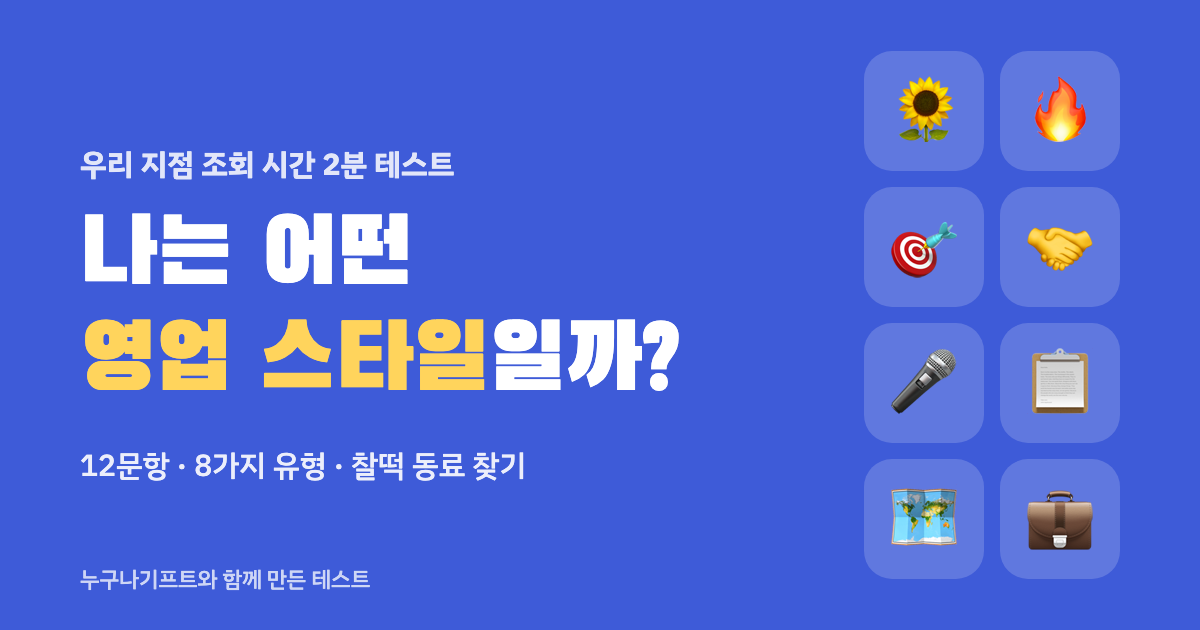
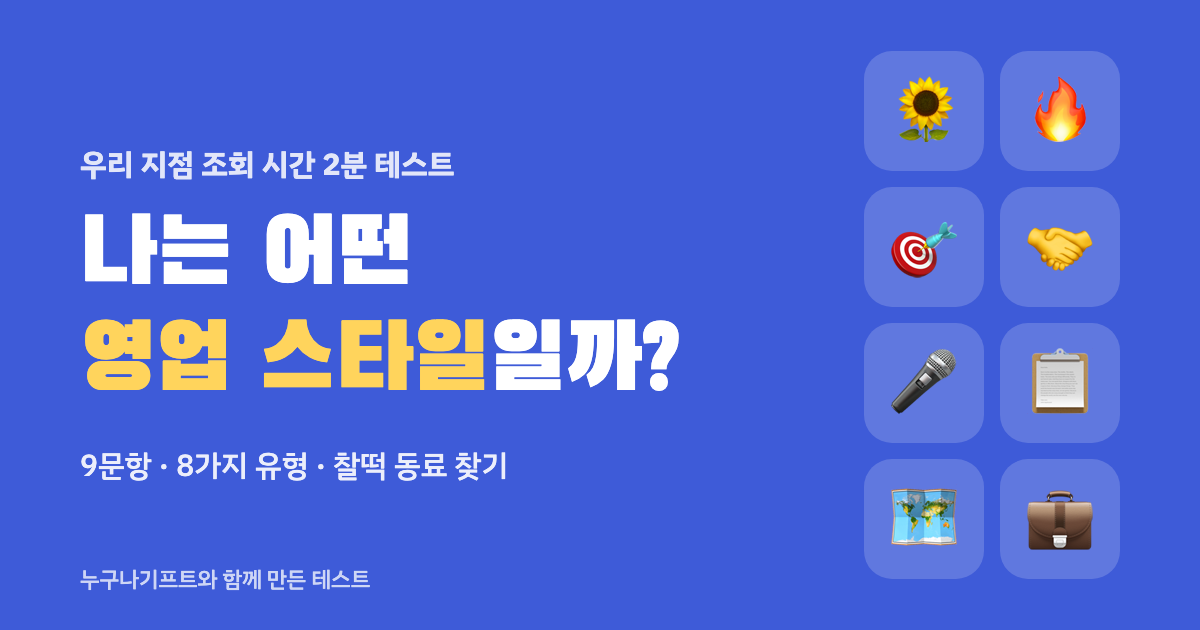
Add files via upload

Changed region(s): [[0.0617, 0.6937, 0.4625, 0.7841]]

diff --git a/index.html b/index.html
@@ -4,10 +4,10 @@
 <meta charset="utf-8">
 <meta name="viewport" content="width=device-width,initial-scale=1,viewport-fit=cover">
 <title>나는 어떤 영업 스타일일까?</title>
-<meta name="description" content="영업 현장 12가지 상황으로 알아보는 나의 영업 유형. 찰떡 동료, 상극 동료까지! 2분이면 끝나요.">
+<meta name="description" content="영업 현장 9가지 상황으로 알아보는 나의 영업 유형. 찰떡 동료, 상극 동료까지! 2분이면 끝나요.">
 <meta property="og:type" content="website">
 <meta property="og:title" content="나는 어떤 영업 스타일일까?">
-<meta property="og:description" content="영업 현장 12가지 상황으로 알아보는 나의 영업 유형. 찰떡 동료, 상극 동료까지! 2분이면 끝나요.">
+<meta property="og:description" content="영업 현장 9가지 상황으로 알아보는 나의 영업 유형. 찰떡 동료, 상극 동료까지! 2분이면 끝나요.">
 <meta property="og:image" content="https://dudejr267-wq.github.io/sales-test/og.png">
 <meta property="og:image:width" content="1200">
 <meta property="og:image:height" content="630">
@@ -143,6 +143,10 @@ p { margin: 0; }
 .gift .g-name { font-family: var(--f-display); font-weight: 400; font-size: 21px; line-height: 1.25; }
 .gift p { font-size: 14px; color: var(--muted); }
 .gift .g-more { align-self: flex-end; font-size: 14px; font-weight: 700; color: var(--gift); }
+.quote { display: flex; flex-direction: column; align-items: center; gap: 2px; text-decoration: none; background: var(--gift); color: #fff; border-radius: 16px; padding: 14px; margin-top: -4px; }
+.quote .q-main { font-weight: 700; font-size: 16px; }
+.quote .q-sub { font-size: 12px; opacity: .9; font-variant-numeric: tabular-nums; }
+.btn.share { background: #FEE500; color: #191600; }
 .maker { text-align: center; font-size: 12px; color: var(--muted); }
 .share-hint { text-align: center; font-size: 14px; color: var(--muted); }
 .actions { display: grid; grid-template-columns: 1fr 1fr; gap: 8px; }
@@ -181,6 +185,9 @@ const CATALOG_PDF = "https://cdnm.heyzine.com/files/uploaded/fade5a246194c7a0fc2
 const CATALOG_PDF_SIZE = "11MB";
 const CATALOG_TOC = 2;   // 목차 쪽
 const PHONE = "031-305-4554";
+const QUOTE_PHONE = "010-8827-3316";   // 견적 문의 문자 받는 번호 (이영덕)
+const SHARE_URL = "https://dudejr267-wq.github.io/sales-test/?from=공유";
+const quoteSms = item => `sms:${QUOTE_PHONE.replace(/-/g, "")}?&body=${encodeURIComponent(`[영업스타일 테스트] ${item} 견적 문의드려요.\n지점명: \n수량: `)}`;
 const catalogLink = n => `${CATALOG_URL}#page/${n}`;   // 링크는 PDF 쪽(page), 화면 표시는 인쇄된 쪽번호(no) — 표지·목차 때문에 2~3쪽 차이
 
 // ── 방문 기록 (이름 없이) → 구글 시트 "영업스타일테스트 로그" ──
@@ -210,11 +217,8 @@ const QUESTIONS = [
   { axis: 2, e: "🤔", q: "고객님이 \"한번 생각해볼게요\" 하셨어요.", a: "다음 주에 안부 문자부터 보내요", b: "\"어떤 부분이 걸리세요? 지금 같이 보실까요?\"" },
   { axis: 0, e: "🎪", q: "아는 사람이 거의 없는 행사장에 갔어요.", a: "먼저 다가가서 인사하고 명함을 나눠요", b: "아는 분 옆에 붙어서 자연스럽게 소개받아요" },
   { axis: 1, e: "🌙", q: "상담 전날 밤, 내가 챙기는 건?", a: "고객님 근황, 가족 이야기, 지난번 대화 메모", b: "보장분석표랑 비교 설계안 3개" },
-  { axis: 2, e: "📅", q: "내 휴대폰 캘린더를 열어보면?", a: "고객님 생일, 결혼기념일로 빼곡해요", b: "이번 주 청약 일정이 제일 크게 적혀 있어요" },
-  { axis: 0, e: "🏆", q: "제일 뿌듯했던 계약을 떠올려보면?", a: "처음 만난 분이 제 설명을 듣고 바로 믿어주신 계약", b: "고객님이 가족, 지인까지 줄줄이 소개해주신 계약" },
-  { axis: 1, e: "😮💨", q: "옆자리 동료가 요즘 실적 때문에 힘들어해요.", a: "커피 한 잔 사주면서 이야기를 들어줘요", b: "지난달 활동량을 같이 뽑아보고 원인을 찾아줘요" },
   { axis: 2, e: "⏰", q: "월말 마감 3일 전이에요.", a: "평소처럼 해요. 꾸준히 해둔 게 들어오거든요", b: "지금이 내 무대! 전화 돌리기 시작해요" },
-  { axis: 0, e: "🛒", q: "주말에 마트에서 장을 보다가…", a: "옆에서 고민하는 분께 자연스럽게 말을 걸어봐요", b: "장만 봐요. 대신 아는 고객님 만나면 30분 수다" },
+  { axis: 0, e: "🏆", q: "제일 뿌듯했던 계약을 떠올려보면?", a: "처음 만난 분이 제 설명을 듣고 바로 믿어주신 계약", b: "고객님이 가족, 지인까지 줄줄이 소개해주신 계약" },
   { axis: 1, e: "⚖", q: "고객님이 다른 회사 상품이랑 비교해달래요.", a: "\"저 믿고 맡겨주신 거잖아요\" 신뢰로 설명해요", b: "항목별로 표 만들어서 장단점을 다 보여드려요" },
   { axis: 2, e: "🗓", q: "계약하고 1년 동안 그 고객님과 나는?", a: "명절, 생일마다 꼭 연락드리며 챙겨요", b: "연락은 가끔이어도 필요할 때 확실히 도와드려요" },
 ];
@@ -273,10 +277,10 @@ function renderIntro() {
     <section class="card hero">
       <div class="kicker">우리 지점 조회 시간 2분 이벤트</div>
       <h1>나는 어떤<br><span>영업 스타일</span>일까?</h1>
-      <p>12가지 영업 상황에 A, B로 답하면 끝! 나와 찰떡인 동료까지 알려드려요.</p>
+      <p>9가지 영업 상황에 A, B로 답하면 끝! 나와 찰떡인 동료까지 알려드려요.</p>
       <button class="btn big" id="start">2분 테스트 시작하기 ▶</button>
       <div class="emoji-row" aria-hidden="true">${Object.values(TYPES).map(t => `<span>${t.emoji}</span>`).join("")}</div>
-      <div class="chips"><span>12문항</span><span>8가지 유형</span><span>찰떡·상극 동료</span></div>
+      <div class="chips"><span>9문항</span><span>8가지 유형</span><span>찰떡·상극 동료</span></div>
     </section>
     ${promoHTML()}`;
   document.getElementById("start").onclick = () => {
@@ -318,7 +322,7 @@ function renderQuestion() {
 }
 
 function score() {
-  // 축마다 A 선택 비율. 2:2 동점이면 그 축 첫 질문의 답을 따라요
+  // 축마다 A 선택 비율 (축당 3문항이라 동점 없음)
   return AXES.map((_, ax) => {
     const idx = QUESTIONS.map((q, k) => q.axis === ax ? k : -1).filter(k => k >= 0);
     const ratio = idx.filter(k => state.picks[k] === "a").length / idx.length;
@@ -383,6 +387,10 @@ function renderResult() {
       </div>
       <span class="g-more">카탈로그 ${T.gift.no}쪽에서 보기 ›</span>
     </a>
+    <a class="quote" id="quote" href="${quoteSms(T.gift.name)}">
+      <span class="q-main">💬 이 선물 견적 문의하기</span>
+      <span class="q-sub">문자로 바로 보내요 · ${QUOTE_PHONE}</span>
+    </a>
     <section class="card">
       <p>${T.desc}</p>
       <div class="axes">${s.map((r, ax) => axisRow(ax, r)).join("")}</div>
@@ -406,7 +414,7 @@ function renderResult() {
       <p>${worstWhy(code)}</p>
     </section>
     <p class="maker">누구나기프트와 함께 만든 테스트예요</p>
-    <p class="share-hint">📸 결과를 캡처해서 지점 단톡방에 올려보세요!</p>
+    <button class="btn share" id="share">📤 카톡으로 결과 공유하기</button>
     <div class="actions">
       <button class="btn sub" id="copy">결과 문구 복사</button>
       <button class="btn sub" id="again">다시 해보기</button>
@@ -416,7 +424,21 @@ function renderResult() {
       <div class="all-list">${Object.entries(TYPES).map(([k, t]) => `<div><b>${t.emoji} ${t.name}${k === code ? " (나)" : ""}</b><span>${t.tag}</span></div>`).join("")}</div>
     </details>
     ${promoHTML()}`;
-  const shareText = () => `${state.name ? state.name + "님" : "나"}의 영업 스타일은 ${T.emoji} ${T.name}!\n"${T.tag}"\n\n찰떡 동료: ${best.emoji} ${best.name}\n상극 동료: ${worst.emoji} ${worst.name}\n\n우리 지점에 ${best.name} 누구예요? 🙋`;
+  const shareText = () => `${state.name ? state.name + "님" : "나"}의 영업 스타일은 ${T.emoji} ${T.name}!\n"${T.tag}"\n\n찰떡 동료: ${best.emoji} ${best.name}\n상극 동료: ${worst.emoji} ${worst.name}\n\n우리 지점에 ${best.name} 누구예요? 🙋\n👉 나도 해보기: ${SHARE_URL}`;
+  document.getElementById("quote").addEventListener("click", () => log("견적 문의", { type: T.name, page: T.gift.page, item: T.gift.name }));
+  document.getElementById("share").onclick = async () => {
+    const t = document.getElementById("toast");
+    if (navigator.share) {
+      try {
+        await navigator.share({ title: "나는 어떤 영업 스타일일까?", text: shareText().replace(`\n👉 나도 해보기: ${SHARE_URL}`, ""), url: SHARE_URL });
+        log("결과 공유", { type: T.name });
+        return;
+      } catch (e) { if (e && e.name === "AbortError") return; }
+    }
+    log("결과 복사", { type: T.name });
+    try { await navigator.clipboard.writeText(shareText()); t.textContent = "복사됐어요! 카톡 단톡방에 붙여넣어 보세요."; }
+    catch (e) { t.textContent = "이 화면에선 공유가 안 돼요. 캡처로 공유해주세요."; }
+  };
   document.getElementById("copy").onclick = async () => {
     const t = document.getElementById("toast");
     log("결과 복사", { type: T.name });
